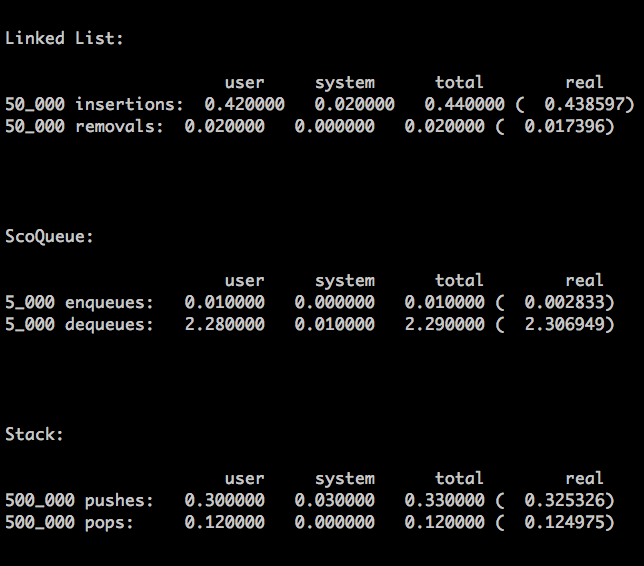
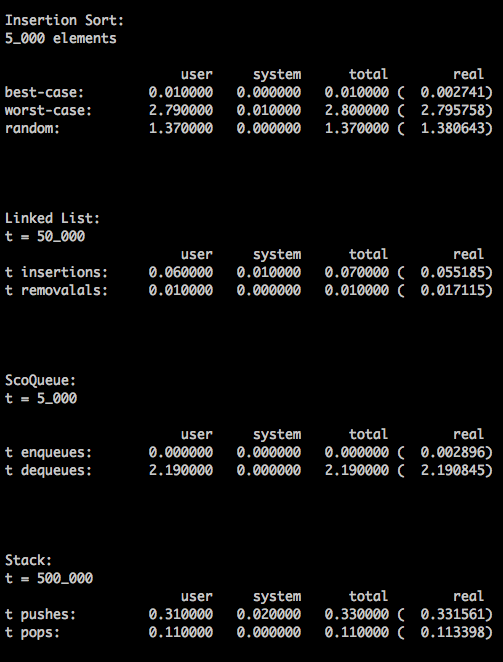
Update README

diff --git a/README.md b/README.md
@@ -5,6 +5,8 @@ By [Scott Macpherson](https://github.com/scottmacphersonmusic)
 
 A repository to hold sample code for a number of classic data structures implemented in ruby.
 ### Features
+- Insertion Sort
+  - Sort an array using an insertion sort algorithm
 - Linked List
   - Create and manipulate singly linked lists
 - Stack
@@ -13,9 +15,13 @@ A repository to hold sample code for a number of classic data structures impleme
   - Create a queue, enqueue and dequeue items and compute size
 - Benchmarks
   - Use a rake task to see performance statistics for each data structure
-- Coming soon: *Insertion Sort*
 
 ### Usage
+##### Insertion Sort
+The insertion sort algorithm is monkey-patched onto ruby's built-in `Array` class, so to use it just call `#insertion_sort` on an `Array` object:
+
+`[3, 2, 5, 1, 4].insertion_sort` returns `[1, 2, 3, 4, 5]`
+
 ##### Linked List
 Create a new instance of `LinkedList` with an initial value of any type:
 
@@ -101,6 +107,8 @@ This will print performance statistics to the console:
 Linked list enlightenment found at [visualgo](http://visualgo.net/list.html#)
 
 I learned about ruby exception handling at [Ruby Learning](http://rubylearning.com/satishtalim/ruby_exceptions.html)
+
+[Ronald Kinch](https://github.com/ronaldkinch) contributed to the implementation of `Array#insertion_sort`
 
 [Matt Yang](https://github.com/yang70) contributed to the implementation of `ScoQueue`
 
